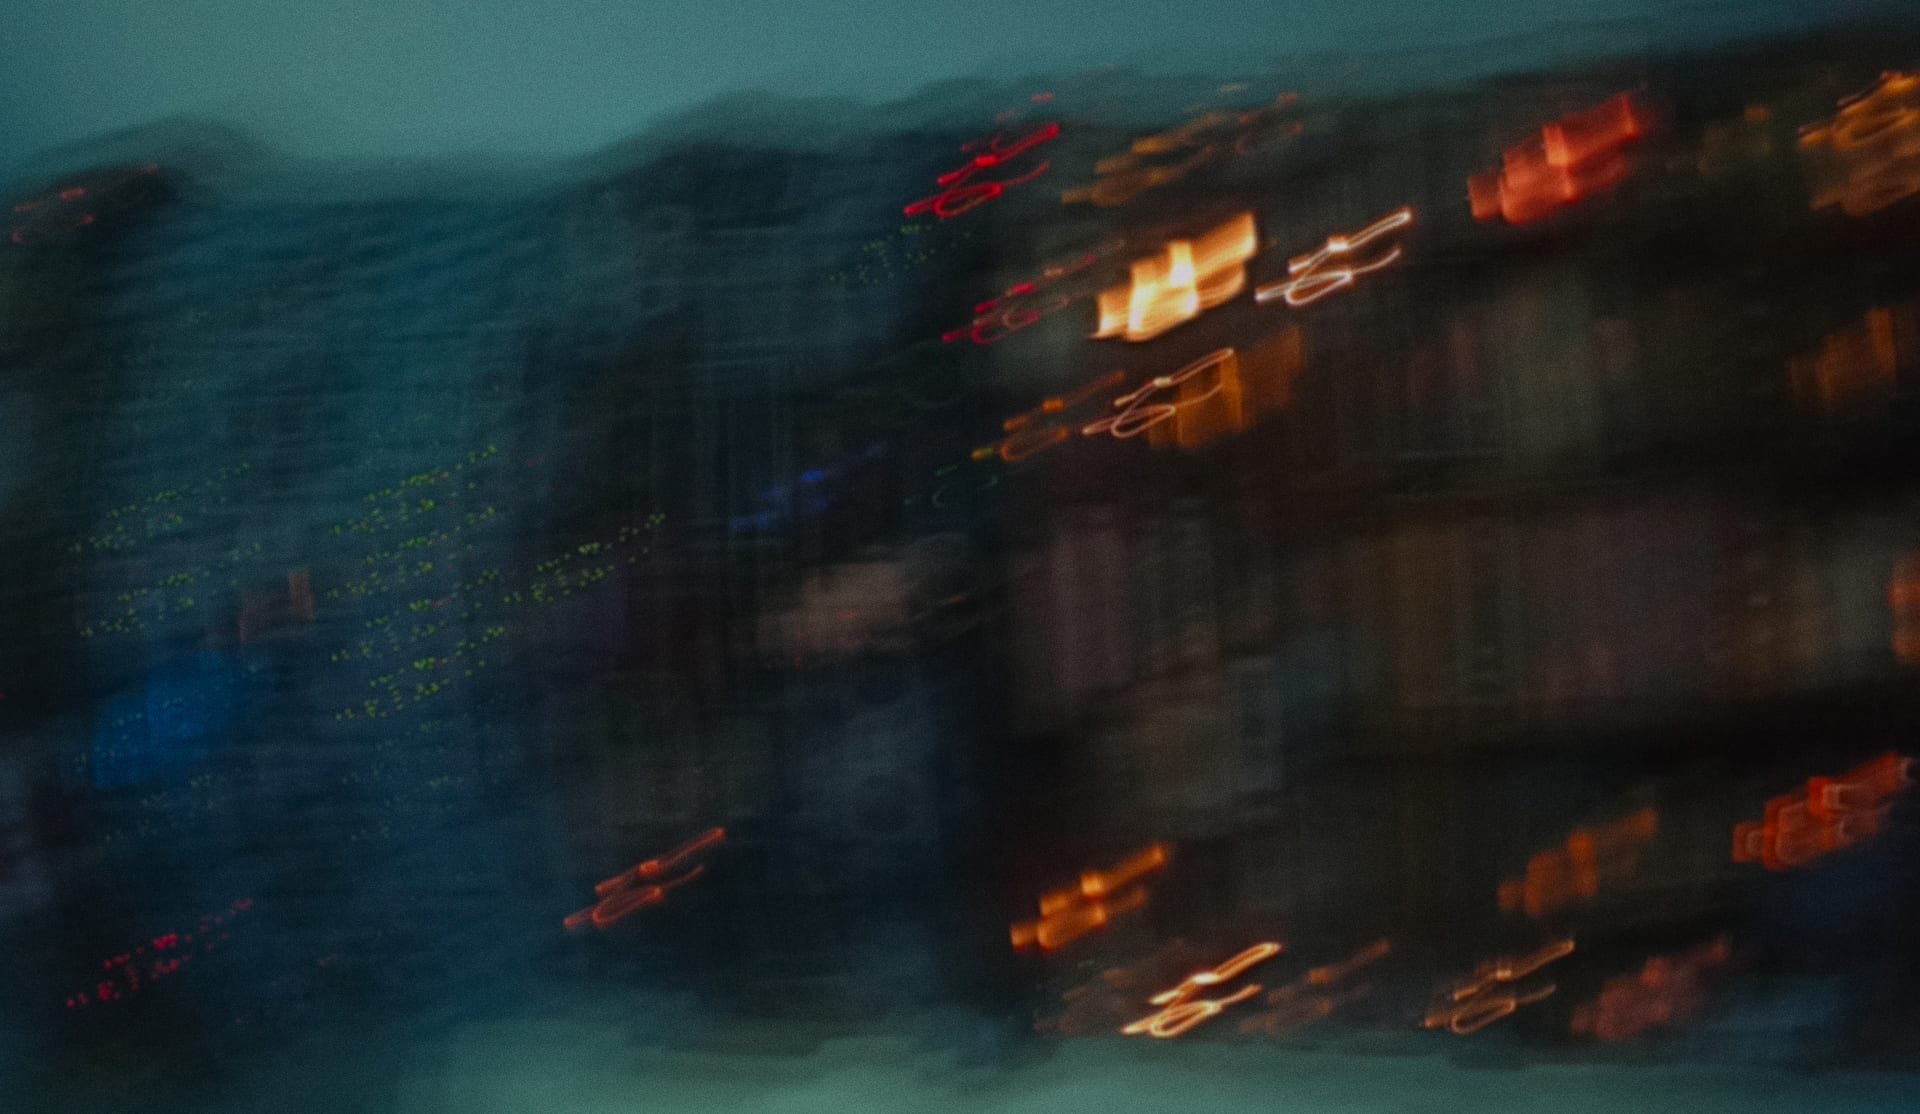
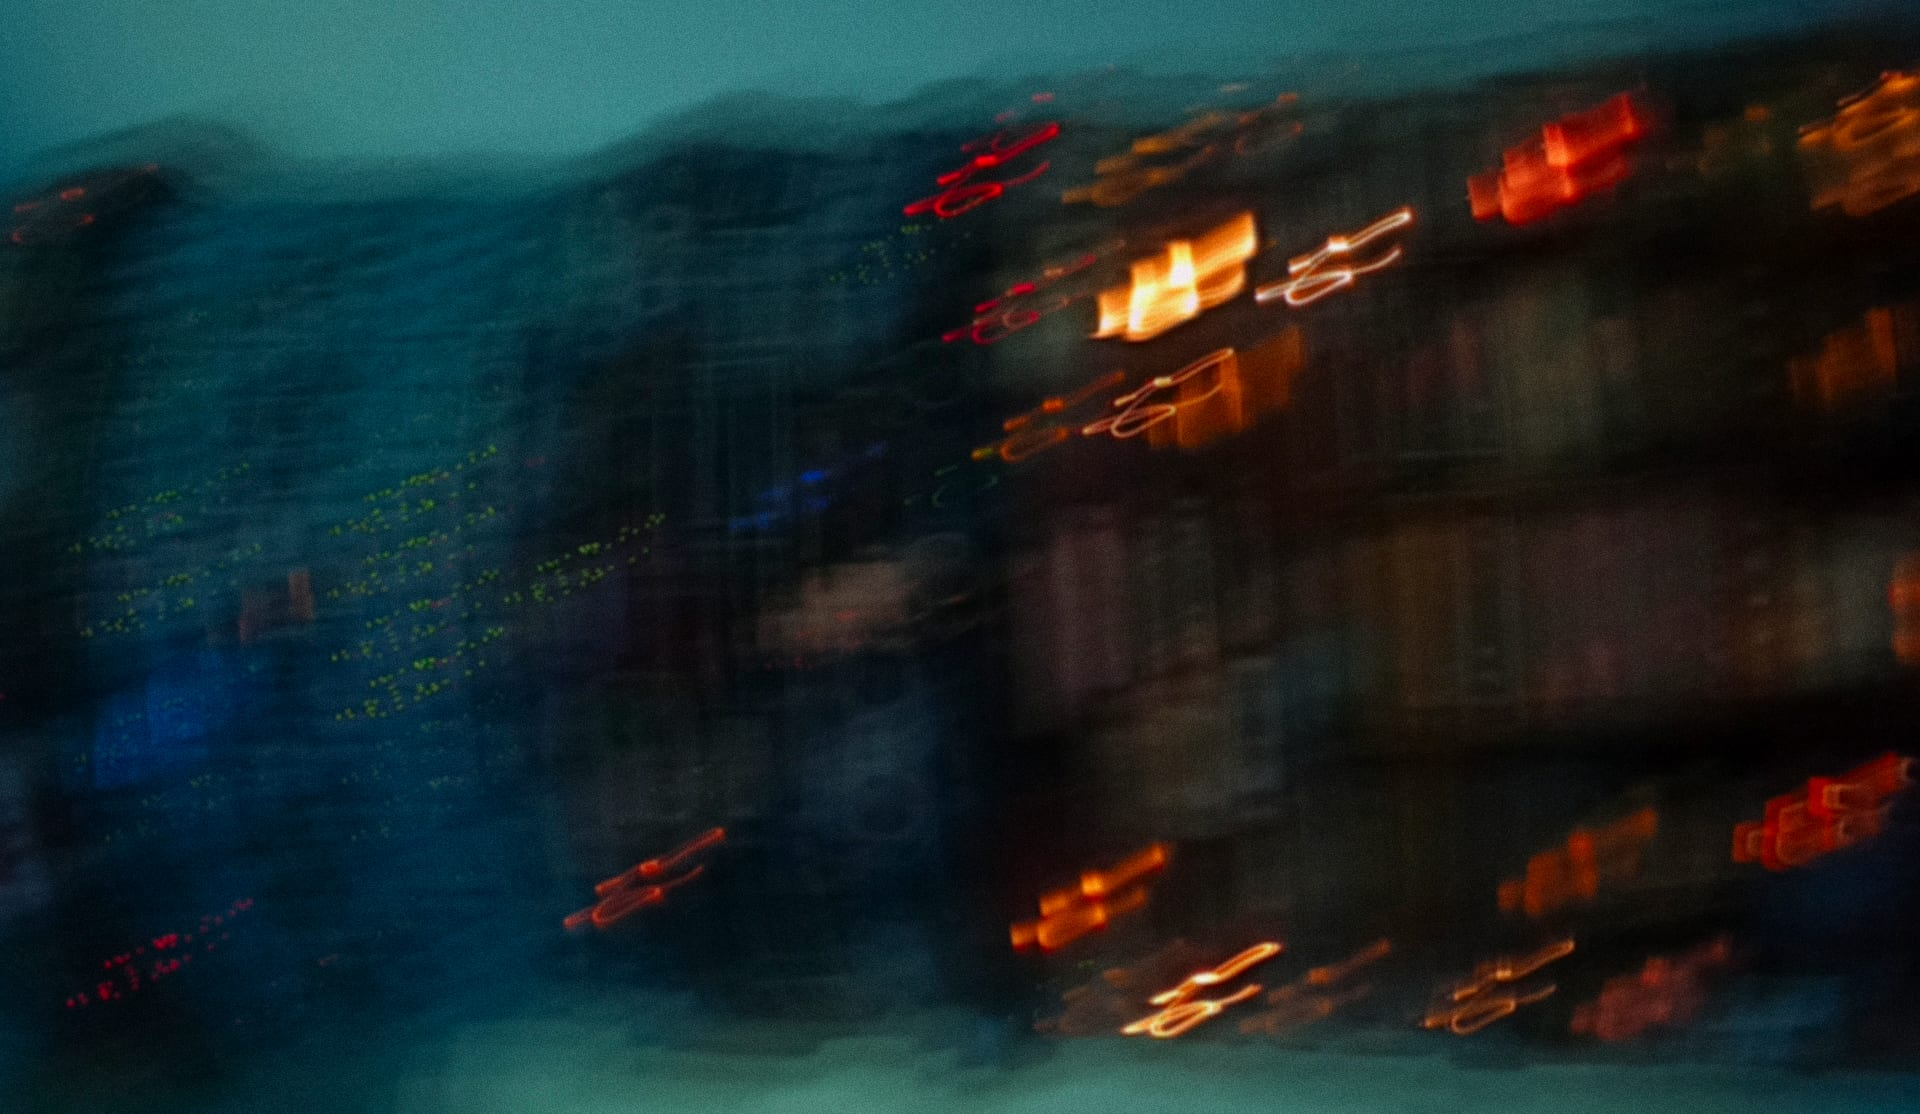
Loading: no unstyled flash in Firefox, no background pop, lighter front-page hero
- inline style hides the body (on a dark ground) until the stylesheet has
  loaded; base.css reveals it; failsafe after 3 s. Firefox painted the raw page.
- preload the fonts seen at first paint (Plex Mono, Major Mono, the era's title faces)
- scripts wait for the stylesheet before measuring layout
- background art fades in on load instead of popping in; spikes fade with the page
- name/title stays hidden until its decode starts (first visit per tab only), and
  the decode waits for fonts so the box isn't pinned to a fallback width
- front-page hero: colour grade baked into the image, one mask instead of three,
  no zoom animation (masked + filtered + animated layers repaint badly)

diff --git a/src/styles/era.css b/src/styles/era.css
@@ -1,6 +1,9 @@
 /* ---------- era backgrounds ---------- */
 main.content, .footer { position: relative; z-index: 1; }
 .era-bg { position: fixed; inset: 0; z-index: -1; pointer-events: none; overflow: hidden; will-change: transform; }
+/* the art fades in once it has loaded, instead of popping in after the page has already appeared (onload in EraBg) */
+.era-bg img { transition: opacity 0.8s ease; }
+html.js .era-bg img:not(.ok) { opacity: 0; }
 .era-bg picture, .era-bg img, .era-bg canvas { display: block; width: 100%; height: 100%; object-fit: cover; object-position: var(--focus, 60% 50%); }
 /* keep the reading column dark: art lives to the right and fades toward the text */
 .era-bg::after { content: ''; position: absolute; inset: 0; background: linear-gradient(90deg, var(--ground) 0%, color-mix(in srgb, var(--ground) 82%, transparent) 38%, color-mix(in srgb, var(--ground) 20%, transparent) 75%, transparent 100%); }
@@ -46,6 +49,10 @@ svg.spikes { position: fixed; inset: 0; width: 100vw; height: 100vh; z-index: 0;
 .spike .bolt { fill: var(--bolt, #ffe14d); }
 :root[data-era='past'] svg.spikes { opacity: 0.55; }
 :root[data-era='future'] svg.spikes { opacity: 0.8; }
+/* spikes leave and arrive with the page */
+svg.spikes { transition: opacity 0.45s ease; }
+:root.leaving svg.spikes { opacity: 0; transition-duration: 0.32s; }
+:root.arriving svg.spikes { opacity: 0; transition: none; }
 .page-title.quake { transform: translate(3px, -1px) skewX(-6deg); }
 
 /* page change into the future */

diff --git a/src/scripts/decode.ts b/src/scripts/decode.ts
@@ -34,6 +34,7 @@ function run(el: HTMLElement, target: string) {
     if (shown < n) requestAnimationFrame(frame); else { text.data = target; unpin(); }
   };
   text.data = target.replace(/\S/g, () => POOL[(Math.random() * POOL.length) | 0]!);
+  document.documentElement.classList.remove('decoding');
   requestAnimationFrame(frame);
 }
 
@@ -42,12 +43,20 @@ export function initDecode() {
   let seen = false;
   try { seen = !!sessionStorage.getItem(key); } catch { /* ignore */ }
   const els = document.querySelectorAll<HTMLElement>('[data-decode]');
-  if (!els.length) return;
+  const reveal = () => document.documentElement.classList.remove('decoding');
+  if (!els.length) { reveal(); return; }
   try { sessionStorage.setItem(key, '1'); } catch { /* ignore */ }
-  if (isReduced() || seen) return;
-  els.forEach((el) => {
+  if (isReduced() || seen) { reveal(); return; }
+  // measure and pin the box only once the web fonts are in: pinned to a fallback font's width, the name gets clipped
+  const go = () => els.forEach((el) => {
     if (el.dataset.decoded) return;
     el.dataset.decoded = '1';
     run(el, el.dataset.decode ?? el.textContent ?? '');
   });
+  const fonts = document.fonts?.ready;
+  if (!fonts) { go(); return; }
+  let done = false;
+  const once = () => { if (!done) { done = true; go(); } };
+  fonts.then(once);
+  setTimeout(once, 600); // never wait long for slow fonts
 }

diff --git a/src/styles/layout.css b/src/styles/layout.css
@@ -68,16 +68,9 @@
   /* sits behind and to the right of the text, inset from the viewport edges */
   top: -6rem; bottom: -1rem; left: 18%; right: -18vw;
   transform: rotate(-2deg);
-  mask-image:
-    radial-gradient(78% 74% at 55% 48%, #000 45%, transparent 82%),
-    linear-gradient(90deg, transparent 0%, #000 18%, #000 88%, transparent 100%),
-    linear-gradient(180deg, transparent 0%, #000 22%, #000 80%, transparent 100%);
-  -webkit-mask-image:
-    radial-gradient(78% 74% at 55% 48%, #000 45%, transparent 82%),
-    linear-gradient(90deg, transparent 0%, #000 18%, #000 88%, transparent 100%),
-    linear-gradient(180deg, transparent 0%, #000 22%, #000 80%, transparent 100%);
-  mask-composite: intersect; -webkit-mask-composite: source-in;
-  filter: saturate(1.25) contrast(1.08) brightness(1.1);
+  /* one soft elliptical fade to every edge; the colour grade is baked into the image (scripts/photos.mjs) */
+  mask-image: radial-gradient(farthest-side at 55% 50%, #000 35%, transparent 100%);
+  -webkit-mask-image: radial-gradient(farthest-side at 55% 50%, #000 35%, transparent 100%);
 }
 .hero .bg img, .hero .bg picture { width: 100%; height: 100%; object-fit: cover; opacity: 1; }
 main.content { overflow: visible; }

diff --git a/src/styles/effects.css b/src/styles/effects.css
@@ -11,9 +11,6 @@
 figure { position: relative; }
 figure::after { z-index: 0; }
 
-/* hero breath */
-.hero .bg img { animation: breath 6s var(--ease) both; }
-@keyframes breath { from { transform: scale(1.03); } to { transform: scale(1); } }
 
 /* sigil draw-on */
 .sigil .draw { stroke-dasharray: 1; stroke-dashoffset: 1; animation: draw 1.1s var(--ease) forwards; }
@@ -66,6 +63,9 @@ html.arriving .knob-dot { transition: none; }
 .shell > :not(.rail) { transition: opacity 0.45s ease; }
 html.leaving .shell > :not(.rail) { opacity: 0; transition-duration: 0.32s; }
 html.arriving .shell > :not(.rail) { opacity: 0; transition: none; animation: unhide 0s 1.2s forwards; }
+/* decode: the text waits hidden for its scramble (class set in Head.astro, lifted by scripts/decode.ts); failsafe after 1.5 s */
+html.decoding [data-decode] { visibility: hidden; animation: unhide-v 0s 1.5s forwards; }
+@keyframes unhide-v { to { visibility: visible; } }
 /* failsafe: if the script that lifts .arriving is slow or never runs, the page still appears */
 @keyframes unhide { to { opacity: 1; } }
 html.leaving .rail-line { opacity: 0.45; transition: opacity 0.32s ease; }

diff --git a/src/scripts/site.ts b/src/scripts/site.ts
@@ -28,5 +28,12 @@ function init() {
   initFigures();
 }
 
-if (document.readyState === 'loading') document.addEventListener('DOMContentLoaded', init, { once: true });
-else init();
+/** the scripts measure layout; doing that before the stylesheet has applied makes Firefox paint the page unstyled */
+function styled(): Promise<void> {
+  const pending = [...document.querySelectorAll<HTMLLinkElement>('link[rel="stylesheet"]')].filter((l) => !l.sheet);
+  return Promise.all(pending.map((l) => new Promise((r) => { l.addEventListener('load', r, { once: true }); l.addEventListener('error', r, { once: true }); }))).then(() => {});
+}
+
+const start = () => { styled().then(init); };
+if (document.readyState === 'loading') document.addEventListener('DOMContentLoaded', start, { once: true });
+else start();

diff --git a/src/styles/base.css b/src/styles/base.css
@@ -1,6 +1,7 @@
 *, *::before, *::after { box-sizing: border-box; }
 html { scroll-behavior: smooth; -webkit-text-size-adjust: 100%; }
 body {
+  visibility: visible; /* hidden by an inline style in Head.astro until this stylesheet has loaded */
   margin: 0;
   background: var(--ground);
   color: var(--ink);
